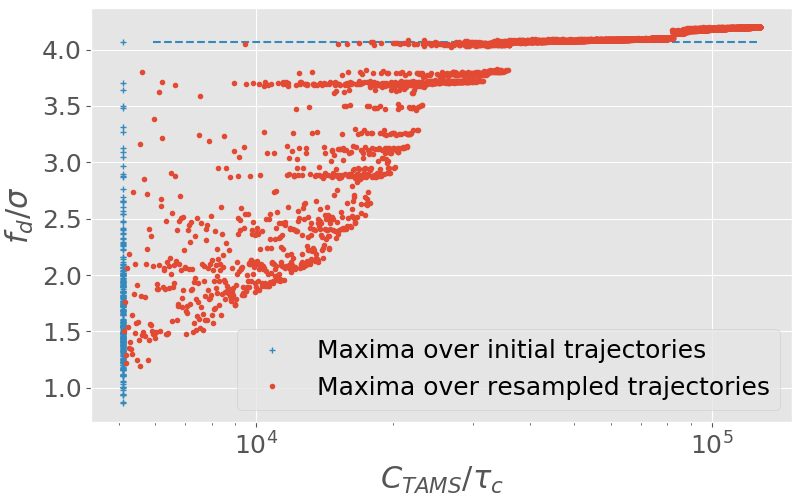
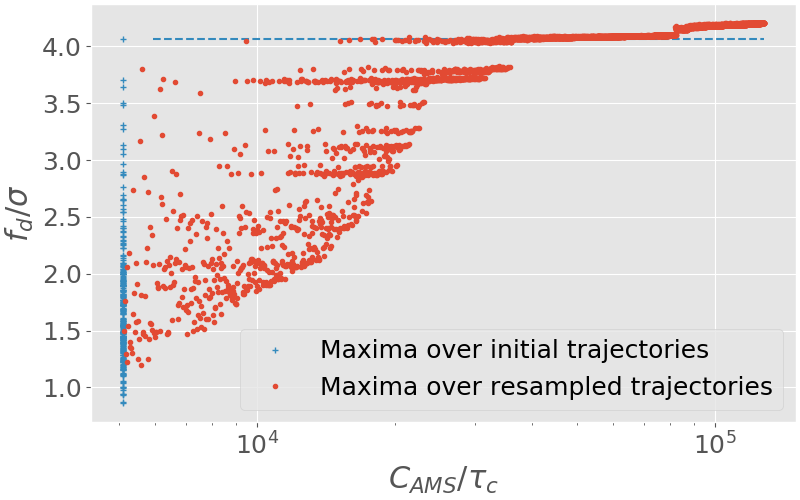
Modify labels of PDFs

diff --git a/figures/AMS_drag_resampling/make_plot_256.py b/figures/AMS_drag_resampling/make_plot_256.py
@@ -11,9 +11,9 @@ color_list = plt.rcParams['axes.prop_cycle'].by_key()['color']
 # transition_hdd/thibault/These/AMS/libTAMS/tests/experience_lbm/courbe_efficacite_instant
 # Original MATLAB script is make_plot_256.m
 
-prefix = '/home/tlestang/transition_hdd/thibault/These/AMS/libTAMS/tests/experience_lbm/' \
-        +'data/instant_256_20/'
-
+# prefix = '/home/tlestang/transition_hdd/thibault/These/AMS/libTAMS/tests/experience_lbm/' \
+#         +'data/instant_256_20/'
+prefix = "../../data/AMS_instant_256_20/"
 # Defines average and std of drag process, compute over the control run
 m = 0.0252
 sig = 0.0412
@@ -58,7 +58,7 @@ resamp.set_markeredgecolor(resamp.get_markerfacecolor())
 resamp.set_label('Maxima over resampled trajectories')
 
 ax.set_xscale('log')
-ax.set_xlabel(r'$C_{TAMS} / \tau_c$',fontsize=22)
+ax.set_xlabel(r'$C_{AMS} / \tau_c$',fontsize=22)
 ax.set_ylabel(r'$f_d / \sigma$',fontsize=22)
 ax.tick_params(axis="x", labelsize=18)
 ax.tick_params(axis="y", labelsize=18)

diff --git a/figures/PDF_drag/PDF_drag.py b/figures/PDF_drag/PDF_drag.py
@@ -6,7 +6,7 @@ import pandas as pd
 import matplotlib.pyplot as plt
 
 
-fig, ax = plt.subplots()
+fig, ax = plt.subplots(constrained_layout=True)
 
 series = pd.read_csv("../../data/PDF_drag.csv", comment="#", index_col=0)
 series.plot(ax=ax, lw=2, legend=False)
@@ -23,8 +23,8 @@ plt.plot(
     color="k",
     linewidth=1.5,
 )
-plt.xlabel("$(f_d - \\mu)/\\sigma$", fontsize=18)
-plt.ylabel("$\\mathcal{P}$", fontsize=18)
+plt.xlabel("$x=(f_d - \\mu)/\\sigma$", fontsize=20)
+plt.ylabel("$P(x)$", fontsize=20)
 plt.legend(["With obstacle", "Without obstacle", "Gaussian estimate"], fontsize=18)
 plt.yscale("log")
 fname = splitext(__file__)[0] + ".png"

diff --git a/figures/pdf_drag_with_perturbation/pdf_drag_with_perturbation.py b/figures/pdf_drag_with_perturbation/pdf_drag_with_perturbation.py
@@ -14,8 +14,8 @@ trunc_series.plot(ax=ax, lw=2, legend=False)
 series_perturb = pd.read_csv("../../data/PDF_drag_with_perturbation.csv", comment="#", index_col=0)
 series_perturb.plot(ax=ax, lw=2, legend=False)
 
-ax.set_xlabel("$(f_d - \\mu)/\\sigma$", fontsize=22)
-ax.set_ylabel("$\\mathcal{P}$", fontsize=22)
+ax.set_xlabel("$x=(f_d - \\mu)/\\sigma$", fontsize=22)
+ax.set_ylabel("$P(x)$", fontsize=22)
 ax.legend(["No perturbation", "$\\epsilon = 0.002$"], fontsize=18)
 ax.tick_params(axis='both', which='major', labelsize=18)
 
